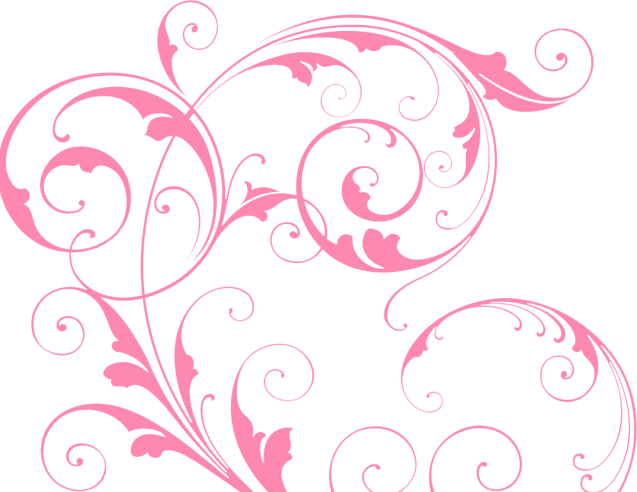
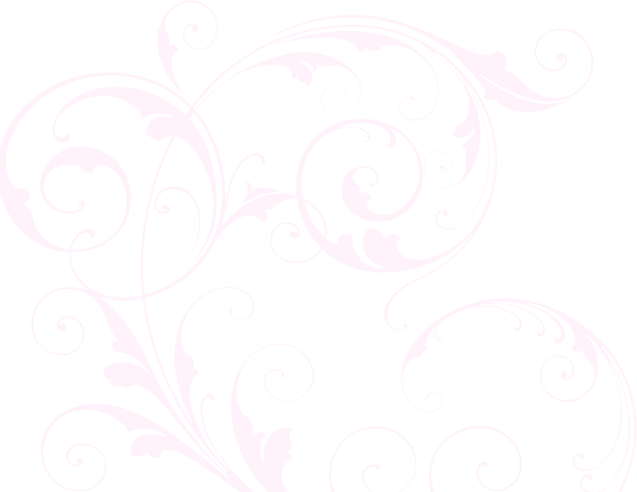
Background changes to new color #0f2531

diff --git a/web/css/style.css b/web/css/style.css
@@ -2,7 +2,7 @@
 html, body{
   	font-family: 'Open Sans', sans-serif;
     font-size: 100%;
-  	background:#7f1325;
+  	background:#0f2531;
 }
 body a{
 	transition:0.5s all;
@@ -478,7 +478,7 @@ a.btn:hover{
 	color:#FFF;
 }
 .top-grids-bg span{
-	background: url(../images/top-grid-bg.png) repeat-x 0px 0px #ff97b7;
+	background: url(../images/top-grid-bg.png) repeat-x 0px 0px #939993;
 	min-height: 585px;
 	width: 100%;
 	display: inline-block;
